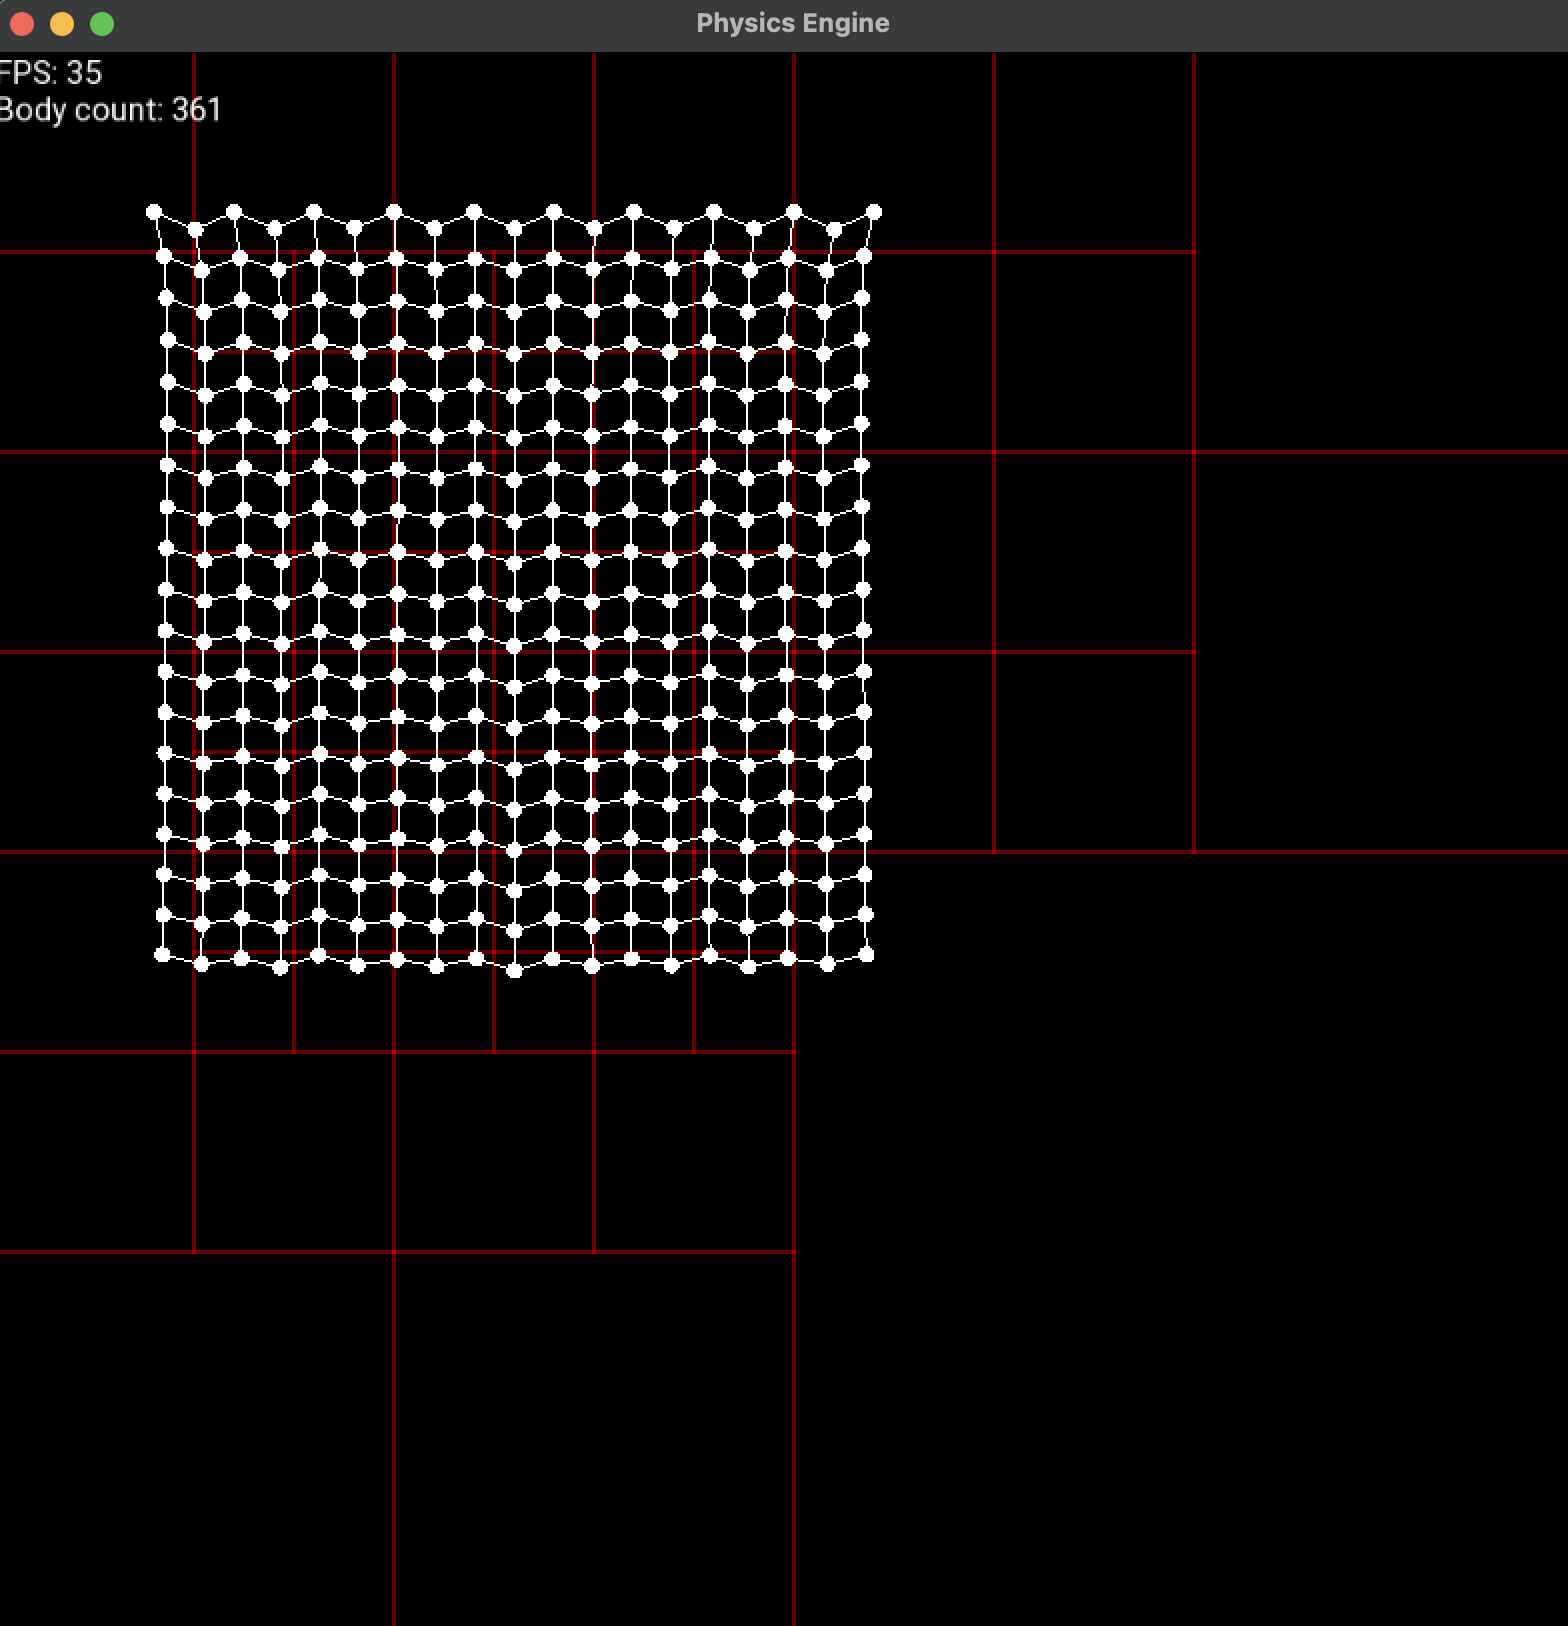
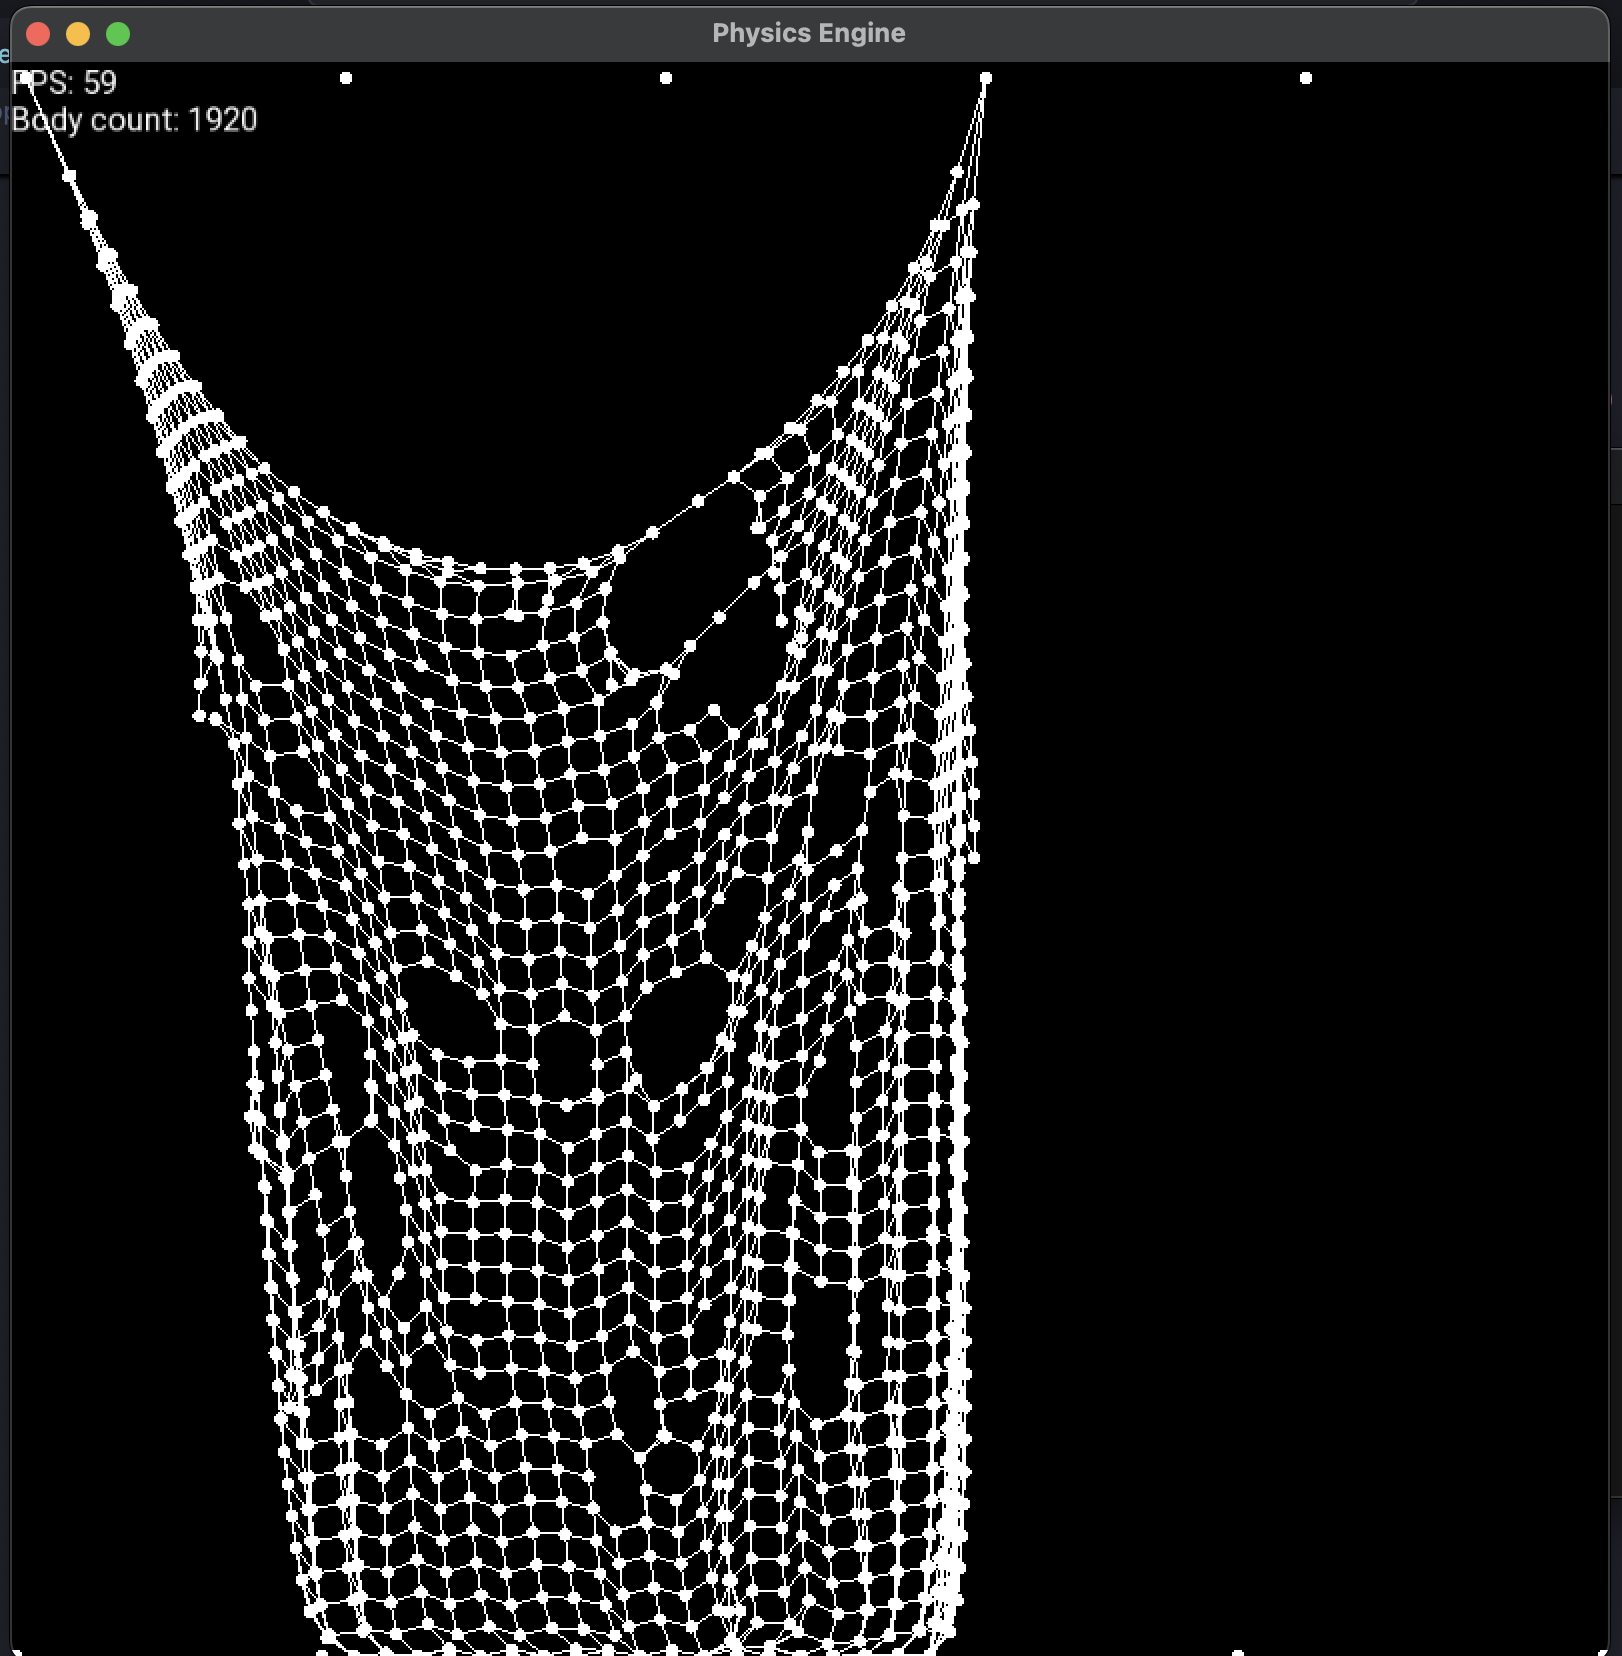
nice

diff --git a/src/app/state/cloth/ClothState.cpp b/src/app/state/cloth/ClothState.cpp
@@ -16,17 +16,16 @@ void ClothState::init(std::shared_ptr<sf::RenderWindow> t_window, sf::Font &t_fo
     m_text.setFillColor(sf::Color::White);
     m_text.setCharacterSize(20);
 
-    int n = 19, m = 19;
-    const sf::Vector2f p_offset = {100.0f, 100.0f};
+    int n = 40, m = 48;
+    const sf::Vector2f p_offset = {10.0f, 10.0f};
 
-    constexpr float rad = 5, p_dist = 5;
-    std::vector<PhysicsBody *> bodies;
+    constexpr float rad = 4, p_dist = 5;
     for (int i = 0; i < n; i++)
     {
         for (int j = 0; j < m; j++)
         {
             sf::Vector2f pos = sf::Vector2f(j * rad * p_dist, i * rad * p_dist) + p_offset;
-            if (i == 0 && j % 2 == 0)
+            if (i == 0 && (j % 10 == 0))
             {
                 bodies.push_back(new StaticBody(pos, rad));
             }
@@ -36,7 +35,6 @@ void ClothState::init(std::shared_ptr<sf::RenderWindow> t_window, sf::Font &t_fo
             }
         }
     }
-    std::vector<Linker *> linkers;
     for (int i = 0; i < n; i++)
     {
         for (int j = 0; j < m; j++)
@@ -44,12 +42,12 @@ void ClothState::init(std::shared_ptr<sf::RenderWindow> t_window, sf::Font &t_fo
             if (j + 1 < m)
             {
                 Linker *link = new Linker(bodies[i * m + j], bodies[i * m + j + 1], rad * p_dist);
-                m_world.add_linker(link);
+                linkers.push_back(link);
             }
             if (i + 1 < n)
             {
-                Linker *link = new Linker(bodies[i * m + j], bodies[i * m + j + n], rad * p_dist);
-                m_world.add_linker(link);
+                Linker *link = new Linker(bodies[i * m + j], bodies[i * m + j + m], rad * p_dist);
+                linkers.push_back(link);
             }
         }
     }
@@ -58,9 +56,10 @@ void ClothState::init(std::shared_ptr<sf::RenderWindow> t_window, sf::Font &t_fo
     // Physics
     m_world.init();
     m_world.sections = 256;
-    m_world.setSubStep(50);
+    m_world.setSubStep(6);
     m_world.algorithm = ALGORITHM::QUAD;
-    m_world.draw_grid = true;
+    m_world.b2b_collision = false;
+    // m_world.draw_grid = true;
 }
 
 void ClothState::update()
@@ -71,7 +70,30 @@ void ClothState::update()
 
     int bCount = m_world.getBodyCount();
     m_text.setString("FPS: " + std::to_string(fps) + "\nBody count: " + std::to_string(bCount));
-    
+
+    if (sf::Mouse::isButtonPressed(sf::Mouse::Left))
+    {
+        sf::Vector2i pixelPos = sf::Mouse::getPosition(*m_window);
+        sf::Vector2f m_worldPos = m_window->mapPixelToCoords(pixelPos);
+
+        for (PhysicsBody *b : bodies)
+        {
+            if (b->contains(m_worldPos))
+            {
+                for (Linker *l : linkers)
+                {
+                    if (l->m_body_2 == b || l->m_body_1 == b)
+                    {
+                        m_world.erase_linker(l);
+                        auto it = find(linkers.begin(), linkers.end(), l);
+                        linkers.erase(it);
+                        delete l;
+                        break;
+                    }
+                }
+            }
+        }
+    }
     move_camera(m_window, m_view);
 }
 

diff --git a/src/physics/World.cpp b/src/physics/World.cpp
@@ -31,31 +31,35 @@ void World::update()
 
     m_counter += m_frame_dt;
     m_t += 0.001f;
+
     for (int i = 0; i < m_sub_steps; i++)
     {
         applyGravity();
         applyConstraint();
-        switch (algorithm)
+        if (b2b_collision)
         {
-        case ALGORITHM::NAIVE:
-            collision.resolveCollisionNaive(m_bodies);
-            break;
-        case ALGORITHM::SORT:
-            collision.resolveCollisionSort(m_bodies);
-            break;
-        case ALGORITHM::GRID:
-            collision.resolveCollisionGrid(m_bodies, sections, sf::Vector2f(m_winWidth, m_winHeight));
-            break;
-        case ALGORITHM::QUAD:
-            collision.resolveCollisionQuad(m_bodies, 10, 200, sf::Vector2f(m_winWidth, m_winHeight));
-        default:
-            collision.resolveCollisionNaive(m_bodies);
-            break;
+            switch (algorithm)
+            {
+            case ALGORITHM::NAIVE:
+                collision.resolveCollisionNaive(m_bodies);
+                break;
+            case ALGORITHM::SORT:
+                collision.resolveCollisionSort(m_bodies);
+                break;
+            case ALGORITHM::GRID:
+                collision.resolveCollisionGrid(m_bodies, sections, sf::Vector2f(m_winWidth, m_winHeight));
+                break;
+            case ALGORITHM::QUAD:
+                collision.resolveCollisionQuad(m_bodies, 10, 200, sf::Vector2f(m_winWidth, m_winHeight));
+            default:
+                collision.resolveCollisionNaive(m_bodies);
+                break;
+            }
         }
-    }
-    for (Linker *i_linker : m_linkers)
-    {
-        i_linker->update();
+        for (Linker *i_linker : m_linkers)
+        {
+            i_linker->update();
+        }
     }
     updatePosition(sub_dt);
 }
@@ -151,6 +155,12 @@ void World::add_bodies(std::vector<PhysicsBody *> &t_bodies, std::vector<Linker 
 void World::add_body(PhysicsBody *t_body)
 {
     m_bodies.push_back(t_body);
+}
+
+void World::erase_linker(Linker *t_linker)
+{
+    auto it = find(m_linkers.begin(), m_linkers.end(), t_linker);
+    m_linkers.erase(it);
 }
 
 void World::add_linker(Linker *t_linker)

diff --git a/src/app/state/shapes/ShapesState.cpp b/src/app/state/shapes/ShapesState.cpp
@@ -17,9 +17,9 @@ void ShapesState::init(std::shared_ptr<sf::RenderWindow> t_window, sf::Font &t_f
     m_text.setCharacterSize(20);
 
     // Physics
-    for (int i = 0; i < 500; i++)
+    for (int i = 0; i < 30; i++)
     {
-        square = new KinematicSquare(rand() % 800 + 100, rand() % 800 + 100, 20, 20, 10, sf::Color::Transparent);
+        square = new KinematicSquare(i * 30 + 100, 100, 20, 20, 10, sf::Color::White);
         m_world.add_bodies(square->m_bodies, square->m_linkers);
     }
     // KinematicSquare square(600, 100, 30, 30, 10);

diff --git a/src/physics/World.hpp b/src/physics/World.hpp
@@ -38,6 +38,7 @@ public:
     void controlBody(sf::Vector2f mousePos);
     void add_bodies(std::vector<PhysicsBody *> &t_bodies, std::vector<Linker *> &t_linkers);
     void add_body(PhysicsBody *t_body);
+    void erase_linker(Linker *t_linker);
     void add_linker(Linker *t_linker);
 
 public:
@@ -51,6 +52,7 @@ public:
     bool draw_lines = true;
     Collision collision;
     bool draw_grid = false;
+    bool b2b_collision = true;
 
 private:
     int m_winWidth = 1000;

diff --git a/src/app/state/cloth/ClothState.hpp b/src/app/state/cloth/ClothState.hpp
@@ -31,4 +31,7 @@ private:
 
     // PHYSICS
     World m_world;
+
+    std::vector<Linker *> linkers;
+    std::vector<PhysicsBody *> bodies;
 };
